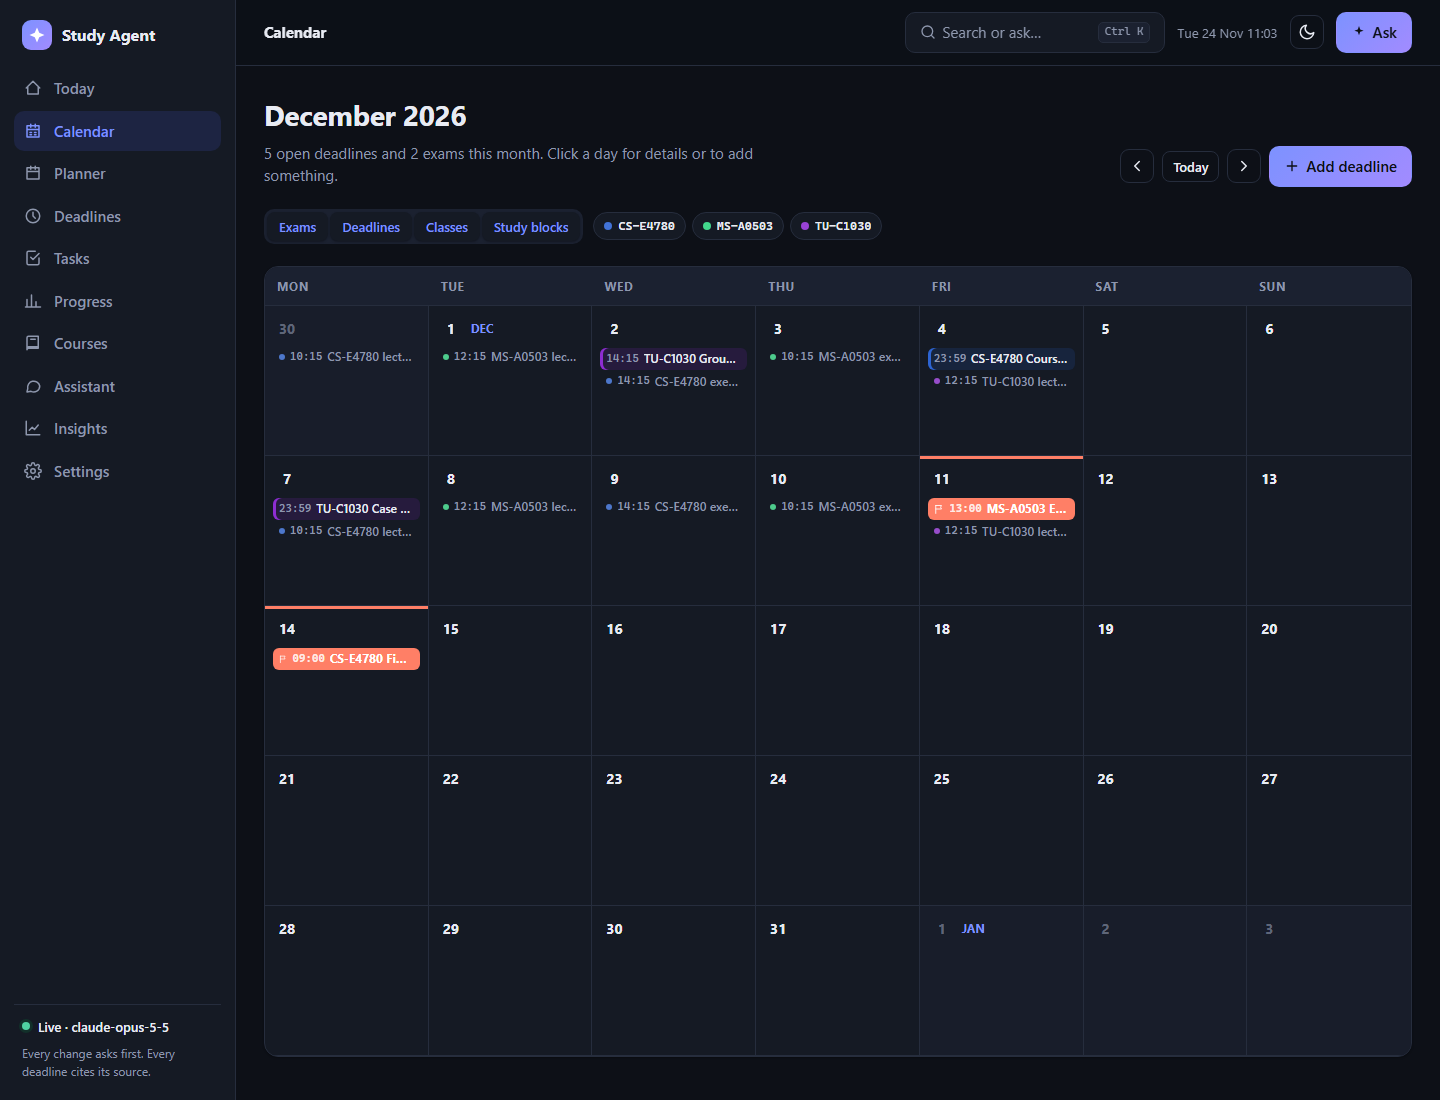
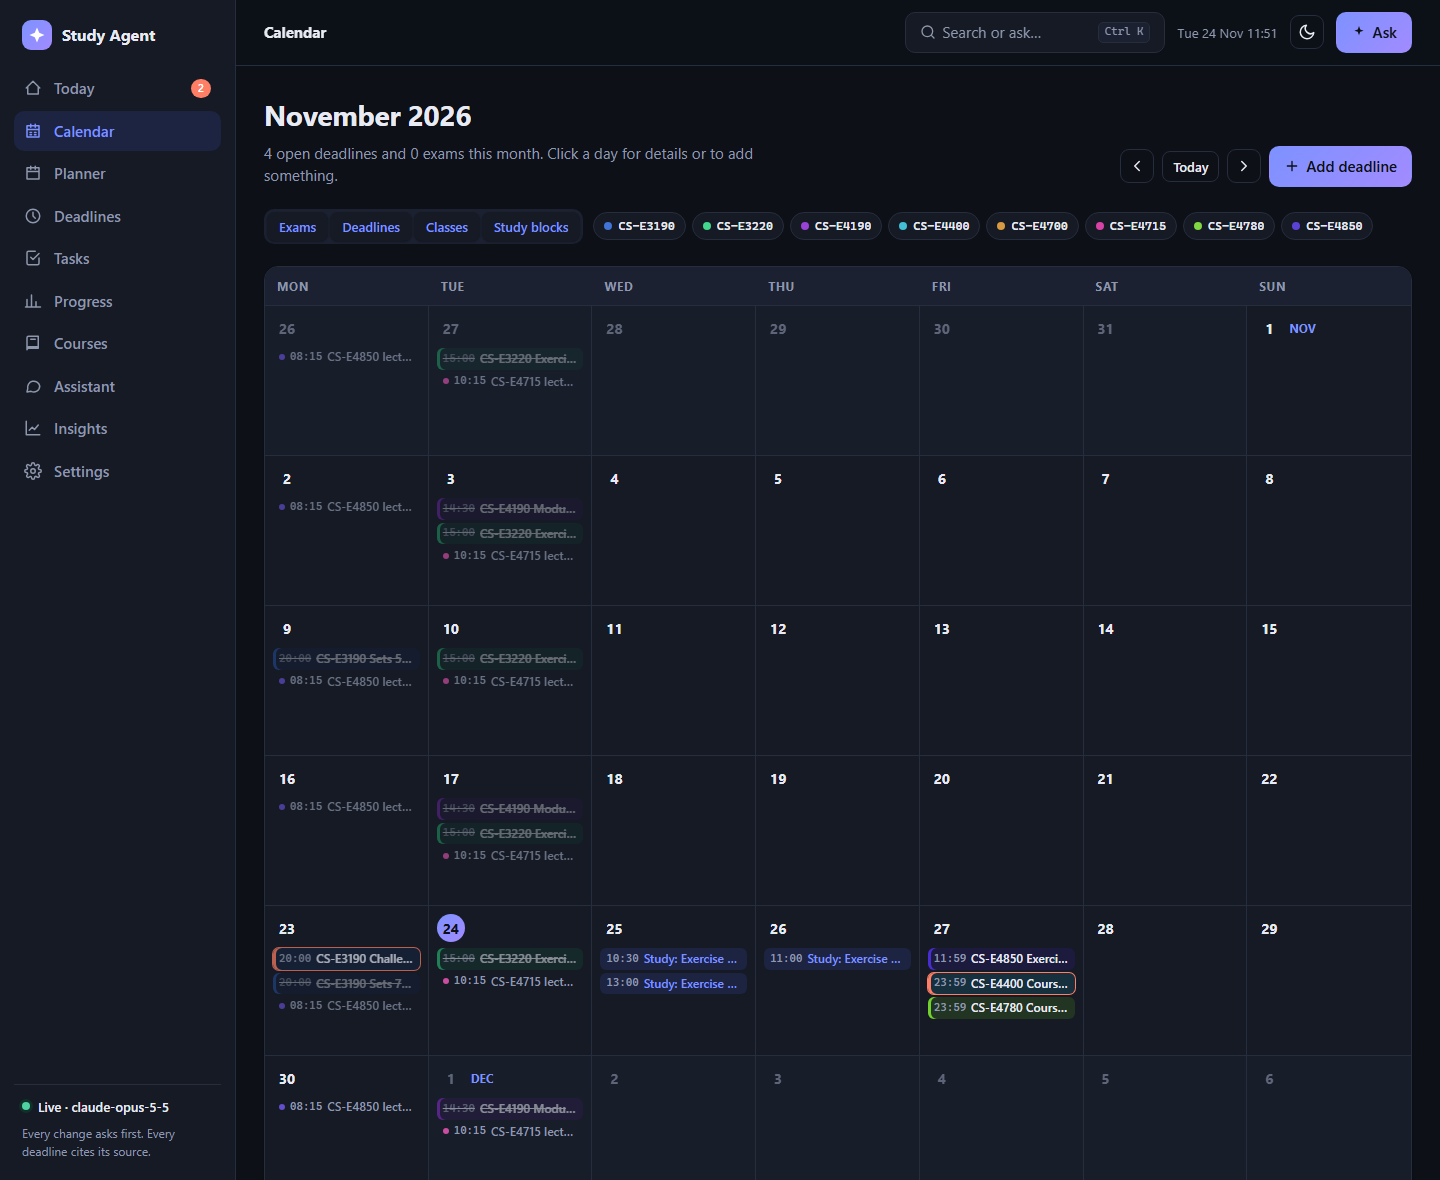
docs: use screenshots of my real semester and describe the first real risk warning

diff --git a/README.md b/README.md
@@ -1,27 +1,33 @@
 # Study Agent
 
-**A personal AI agent that reads my Aalto course deadlines and timetable every morning, plans my day around my lectures, and warns me what is at risk. It uses Claude with tool calling, links every deadline to its source, and changes nothing without my approval.**
+**A personal AI agent that knows my Aalto courses' deadlines, exams and classes, plans my study days around my lectures, and warns me what is at risk. It uses Claude with tool calling, links every deadline to its source, and changes nothing without my approval.**
 
 [![CI](https://github.com/KALalev18/ai-agent-rework/actions/workflows/ci.yml/badge.svg)](https://github.com/KALalev18/ai-agent-rework/actions/workflows/ci.yml)
 ![Python 3.12](https://img.shields.io/badge/python-3.12-blue) ![License: MIT](https://img.shields.io/badge/license-MIT-green)
 
 ```bash
-uv run study web --demo   # web dashboard + chat on a fictional semester, no API key needed
-uv run study demo         # the same in the terminal
-uv run study today        # my real morning brief (needs an API key and my calendar URL)
+uv run study web          # the app at http://127.0.0.1:8765 (Courses, Calendar, Planner, Assistant, ...)
+uv run study web --demo   # the same on a fictional semester, no API key needed
+uv run study today        # my morning brief in the terminal
 ```
 
-![The Today page: greeting, stat cards, today's plan with lectures and suggested study blocks, and the deadlines that need attention with Log / Estimate / Done actions](docs/web.png)
+## What it looks like with my real courses
 
-![The Planner: a week grid with lectures, draggable saved study blocks, dashed suggestions you click to save, and deadline flags](docs/planner.png)
+These are screenshots of the live app with my **8 courses of autumn 2026** at Aalto, taken on Tue 24 Nov 2026 (not the demo).
 
-![The Calendar: a month view with each course in its own colour, exams in red, deadlines, weekly classes and study blocks](docs/calendar.png)
+![Today: this week has three deadlines on Friday; the risk check flags the CS-E4400 project as at risk (22 h of work left up to Friday night, 20 h of free study time) and an overdue CS-E3190 challenge exercise, and today's plan puts one block per project around the Tuesday lecture](docs/today.png)
 
-![Courses: each course with its assignments, projects and exams, their risk status, and its weekly classes](docs/courses.png)
+The risk check is the point of the project. On Tuesday it showed that Friday 27 Nov needs **22 hours** of work across three deadlines (Computer Vision round 12, the Scalable Systems project and the Design of WWW Services project), while my lectures, saved blocks and a 5 h/day limit leave **20 hours** of study time. The CS-E4400 project is the one that does not fit, three days before it is due.
 
-![A real run of `study demo`: morning brief, an approval prompt, and the grounding checker catching an invented exam date](docs/demo.svg)
+![Planner: the week of 23 Nov with lectures, my saved study blocks for Computer Vision round 12, one suggested block per project per day, and the three Friday deadline flags](docs/planner.png)
 
-<sub>The screenshot is a real `study demo` run, regenerated with `uv run python scripts/demo_screenshot.py`. Demo model turns are scripted; the tools, approval gate, checker and database are real.</sub>
+![Calendar, November 2026: each course in its own colour, finished exercise rounds and modules struck through, weekly lectures, study blocks and the Friday deadlines](docs/calendar.png)
+
+![Courses: each course with its assignments, projects and exams, what is done, what is at risk, and the next deadline](docs/courses.png)
+
+![A run of `study demo`: morning brief, an approval prompt, and the grounding checker catching an invented exam date](docs/demo.svg)
+
+<sub>The last screenshot is `study demo` on a fictional semester (regenerate with `uv run python scripts/demo_screenshot.py`): its model turns are scripted, while the tools, approval gate, checker and database are real.</sub>
 
 ---
 
@@ -84,7 +90,7 @@ Plus a Ctrl+K command palette (jump to a page or ask the assistant), Alt+1…8 s
 - **Approval in the browser.** When a write tool returns a proposal, the agent thread blocks until I click Approve or Decline. No answer within 10 minutes means declined. Nothing is written while it waits; a test checks this over HTTP.
 - **Local-only by design.** It binds to `127.0.0.1`, accepts only localhost `Host` headers (blocks DNS rebinding), and every POST needs an `X-Study-Agent` header. Browsers can't add that header to a cross-site request without a CORS preflight, which the app never allows, so another website can't start runs (spending my API budget) or approve changes through my browser. Calendar titles and answers are inserted as text or HTML-escaped, never as raw HTML.
 
-The screenshots above are real `study web --demo` pages captured in headless Edge. In demo mode, button changes are saved for the session (so the numbers and risks update for real), while assistant answers are scripted replays, so its approval cards show the scripted decision instead of buttons.
+The screenshots at the top are the live app with my own courses. `study web --demo` shows the same pages on a fictional semester: button changes are saved for the session (so the numbers and risks update for real), while assistant answers are scripted replays, so its approval cards show the scripted decision instead of buttons.
 
 ## Two ways to get your data in
 
@@ -205,16 +211,23 @@ Every number here comes from a command in this table. Numbers I have not measure
 
 | What | Result | Command |
 |---|---|---|
-| Tests | **159 passed**, 90% branch coverage | `uv run pytest --cov` |
+| Tests | **160 passed**, 90% branch coverage | `uv run pytest --cov` |
 | Eval, replay mode | **23/23** cases; 0 ungrounded claims after the check; the checker caught the 2 planted claims in `hallucination-trap` | `uv run study eval` |
 | Eval, live mode | *pending* | `uv run study eval --live --record` |
 | `study today` latency p50 / p95 | *pending, needs daily use* | `uv run study stats` |
 | Cost per day of real use | *pending* | `uv run study stats` |
-| Days used | *pending* | `uv run study stats` |
+| Days used | *pending* (started 24 Nov 2026) | `uv run study stats` |
+| Courses tracked | **8** (autumn 2026), 28 deadlines | Courses page |
 
-## How I use it every day
+## How I use it
 
-*To be written from my own run log after a week of use: days used, average cost, and one deadline it caught.*
+I started using it on **24 Nov 2026**, with all 8 of my autumn 2026 courses entered on the Courses page from their MyCourses and A+ pages: 28 deadlines (exercise rounds, modules, homework sets, two projects and two exams) and the weekly lectures I attend. Past rounds I had already submitted are marked done, so they show as history, not as risk.
+
+Each morning I open Today: the plan for the day, what needs attention, and what is coming up. When I finish something I log the time against it, which lowers the remaining effort the risk check uses.
+
+The first real result is the warning above: three deadlines on the same Friday that do not fit in the study time I have, flagged on Tuesday.
+
+*Days used, cost per day and latency will be added here from `study stats` once I have a week of use with the API.*
 
 ## Run it
 
@@ -262,7 +275,7 @@ src/study_agent/
   courses.py      courses I type in -> the same Deadline/Event objects as imports
   web/            FastAPI backend + static HTML/CSS/JS dashboard and chat
   cli.py, render.py, stats.py, runlog.py
-tests/            159 tests: parsing, DST, planner, approval gate, checker, loop, live request shape, web
+tests/            160 tests: parsing, DST, planner, approval gate, checker, loop, live request shape, web
 ```
 
 ## What I'd do next
